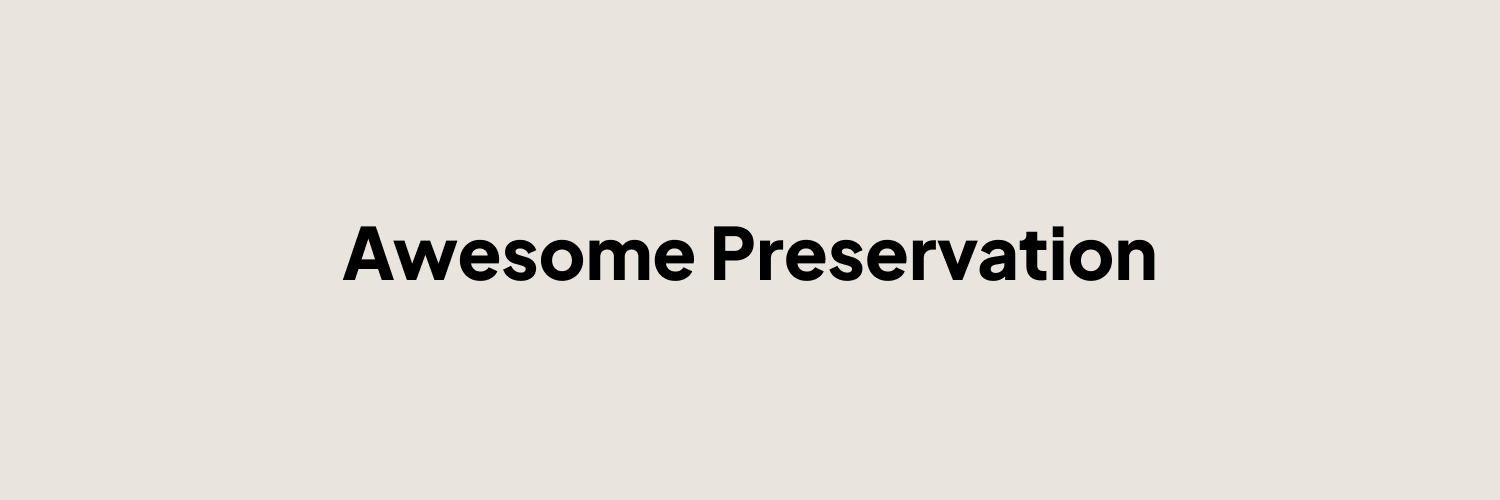
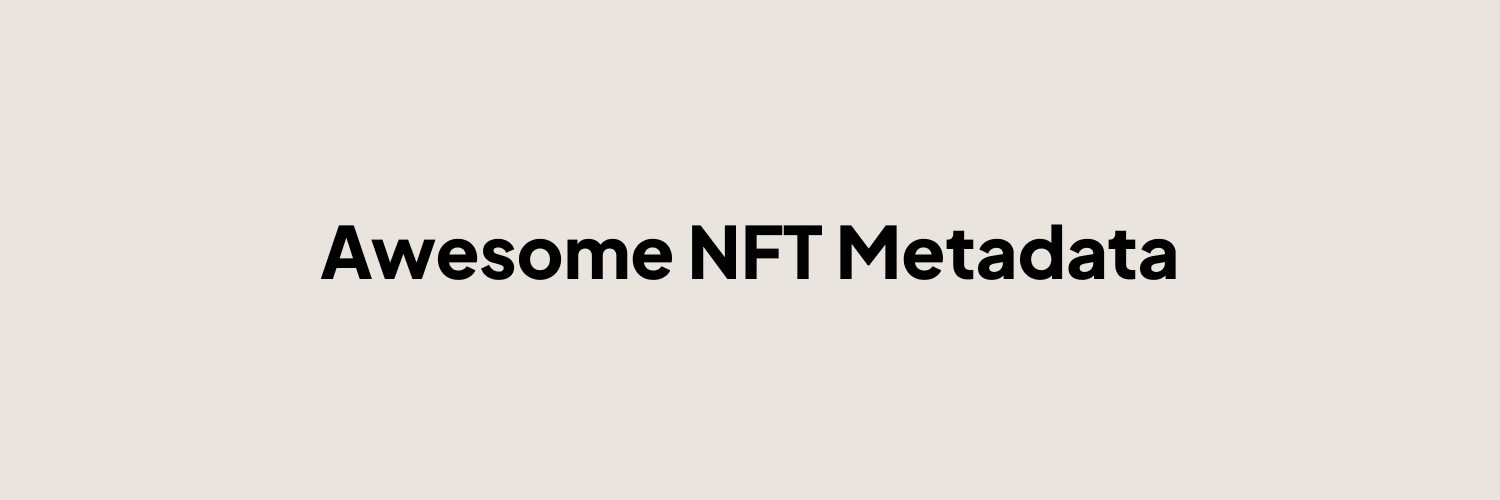
ADD updates to change repo for NFT metadata + add a TOC

Changed region(s): [[0.2147, 0.45, 0.7973, 0.57]]

diff --git a/README.md b/README.md
@@ -4,11 +4,16 @@
 
 ![Awesome](https://cdn.rawgit.com/sindresorhus/awesome/d7305f38d29fed78fa85652e3a63e154dd8e8829/media/badge.svg)
 
-Curating the best NFT **preservation** resources, documentation, and project-specific efforts.
+Curating the best NFT **metadata** resources, documentation, and project-specific efforts.
 
-### What is preservation?
+## Sections
 
-TODO
+- [Organizations](#organizations)
+- [Resources](#resources)
+- [Storage Mediums](#storage-mediums)
+- [Preservation](#preservation)
+  - [What is preservation?](#what-is-preservation)
+  - [Project Specific Efforts](#project-specific-efforts)
 
 ---
 
@@ -36,7 +41,12 @@ Decentralized solutions designed to enable long term data storage, retrieval and
 
 ---
 
-## Project Specific Efforts
+## Preservation 
+
+### What is preservation?
+TODO
+
+### Project Specific Efforts
 Documentation for specific initiatives to help preserve NFT collections 
 
 * [Gen.art](./projects/gen-art.md) - Generative art platform that shutdown in 2023, Pob Studio stepped in to help archive and push NFT metadata to IPFS
